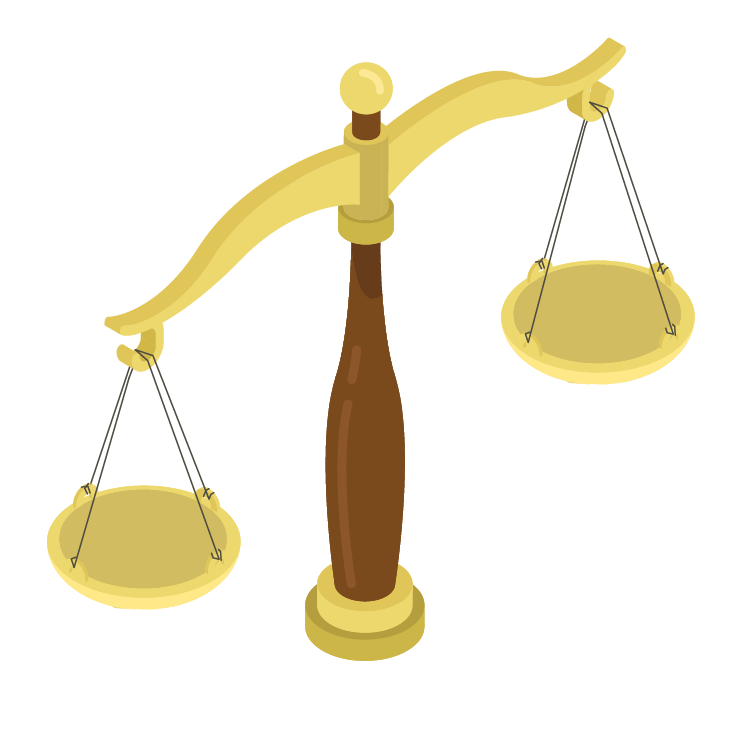
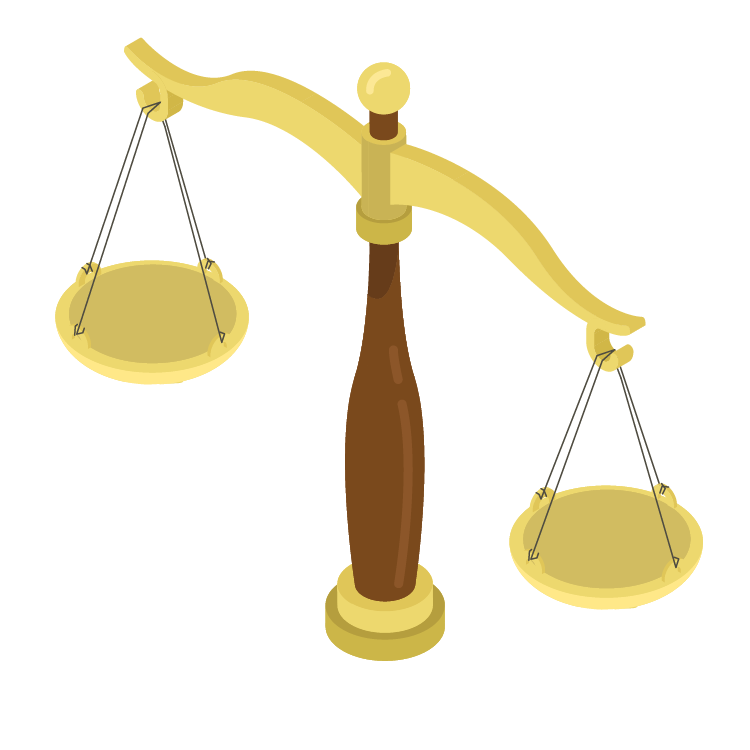
test

diff --git a/css/index.css b/css/index.css
@@ -142,3 +142,6 @@ footer p{
   border-radius: 5rem;
   object-fit:contain;
 }
+.flipped_img{
+  transform: scaleX(-1);
+}

diff --git a/utils/body_generator/bodygen.php b/utils/body_generator/bodygen.php
@@ -43,9 +43,9 @@ class BodyGen
                 <section class="main infocontent saferInternetcontent">';
                 if (!$left) {
                     if ($this->img) {
-                        echo '<img src="' . $content["image"] . '" width="50%" class="bdygen_img">';
+                        echo '<img src="' . $content["image"] . '" width="50%" class="bdygen_img flipped_img">';
                     } else {
-                        echo '<iframe src="https://www.youtube.com/embed/i0K40f-6mLs?list=RDi0K40f-6mLs" width="50%" height="null"
+                        echo '<iframe src="https://www.youtube.com/embed/i0K40f-6mLs?list=RDi0K40f-6mLs" width="50%" height="null" class="bdygen_img"
                         frameborder="0"></iframe>';
                     }
                 }
@@ -61,10 +61,10 @@ class BodyGen
                 </div>';
                 if ($left) {
                     if ($this->img) {
-                        echo '<img src="' . $content["image"] . '" width="50%" class="bdygen_img">';
+                        echo '<img src="' . $content["image"] . '" width="50%" class="bdygen_img ">';
                     } else {
                         echo '<iframe src="https://www.youtube.com/embed/i0K40f-6mLs?list=RDi0K40f-6mLs" width="50%" height="null"
-                            frameborder="0"></iframe>';
+                            class="bdygen_img" frameborder="0"></iframe>';
                     }
                 }
                 echo '</section>
